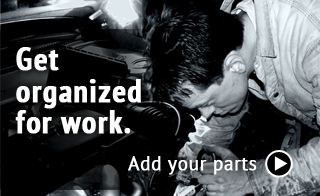
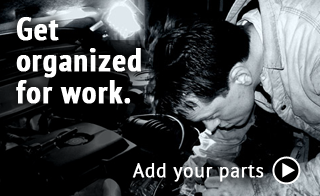
Submitted my CTA and worked on the HTML coding for index.html and the CSS to accommodate the CTA.

diff --git a/MIU/Week 1/index.html b/MIU/Week 1/index.html
@@ -4,8 +4,7 @@
 <!-- Project 2 VFW -->
 <!-- Term 1204 -->
 
-<html>
-	<head>
+<html><head>
 
 		<meta charset="UTF-8">
 		<meta name="keywords" content="Auto, Parts, Car, Autoparts"/>
@@ -15,6 +14,7 @@
 		<meta name="HandheldFriendly" content="True"/>
         <link rel="stylesheet" href="styles.css" />
 		<title>MECPART HELP</title>
+        
 	</head>
 
 	<body>
@@ -22,30 +22,38 @@
     		<h1>MECPART HELP</h1>
     	</header>
         	<center>
+        	  <img src="images/calltoaction.png" onclick="location.href='additem.html'" alt="CTA" height="200" align="middle"/><br />
             
-            <img src="images/calltoaction.png" align="absmiddle" onClick="location.href='additem.html'" alt="CTA"/><br />
+           	  <input type="text" name="search" size="30" value=""> 
+			  <input type="button" value="Search"><br /> 
             
-            <input type="text" name="search" size="25"placeholder="Start Browsing" /><input type="button" name="sbutton" size="2" value="Search" /><br />
-        	</center>
- 
-	<article>
-	
-    	<p>With <strong>MECPART HELP</strong> you can prepare for your car repair needs. This app is intended for all, 	from the professional mechanic to the hard working customer.</p>
-
-	</article>
-    		<center>
-    		<p>
+    		<fieldset>
+				<legend>Car Section:</legend>
+    				<ul>
+     					<li><a href="additem.html" label for="engine">Engine</a></li>
+            
+     					<li><a href="additem.html" label for="cabin">Cabin</a></li>
+    
+     					<li><a href="additem.html" label for="wheels">Wheels</a></li>
+         
+                        <li><a href="additem.html" label for="exhaust">Exhaust</a></li>
+         
+                        <li><a href="additem.html" label for="trunk">Trunk</a></li>
+                
+                        <li><a href="additem.html" label for="body">Body<br /></a></li>
+         
+                     </ul>  
+			</fieldset>
+            
             
    			<!--<a href="additem.html"><strong>Add Car Part</strong></a>-->
-            <input type="button" onclick="location.href='additem.html'" value="Add Car Part"><br />
+            <!--<input type="button" onclick="location.href='additem.html'" value="Add Car Part"><br />-->
             
-            
-            </p>
             
             <small>2012. Three Diamonds Design.</small>
-   			</center>
+   			
+   	</center>
     
-    
-	</body>
+</body>
 
 </html>

diff --git a/MIU/Week 1/styles.css b/MIU/Week 1/styles.css
@@ -3,7 +3,7 @@
 h1{
 	position: relative;
 	margin: 10px 10px 10px 10px;
-	/*padding: 23px 10px 0px 10px;*/
+	/*padding: 8px 10px 0px 10px;*/
 	font-family: Helvetica;
 	color: #2a2a2a;
 	text-shadow: 1px 1px 1px #dfdfdf;
@@ -39,6 +39,7 @@ span{
 	font-weight: bold;
 }
 fieldset{
+	margin: 10px;
 	-moz-border-radius: 10px;
 	border-radius: 10px;
 }
@@ -67,7 +68,7 @@ input[type="submit"]{
 li{
 	line-height: 20px;
 }
-input[value="Add Car Part"]{
+input[type="submit"]{
 	margin: 8px; 
 	font-size: 18px;
 	font-weight: bold;
@@ -81,9 +82,12 @@ input[value="Add Car Part"]{
     -moz-border-radius: 1px;
     -webkit-border-radius: 1px;
 }
-input[name="search"]{
-	margin: 25px;
-}
 img{
-	margin: -10px;
+	margin: -12px -25px 15px -30px;
+	padding: -15px 25px -5px -10px;
 }
+input[type="search"]{
+	margin: 8px;
+	padding: 10px;
+}
+	
